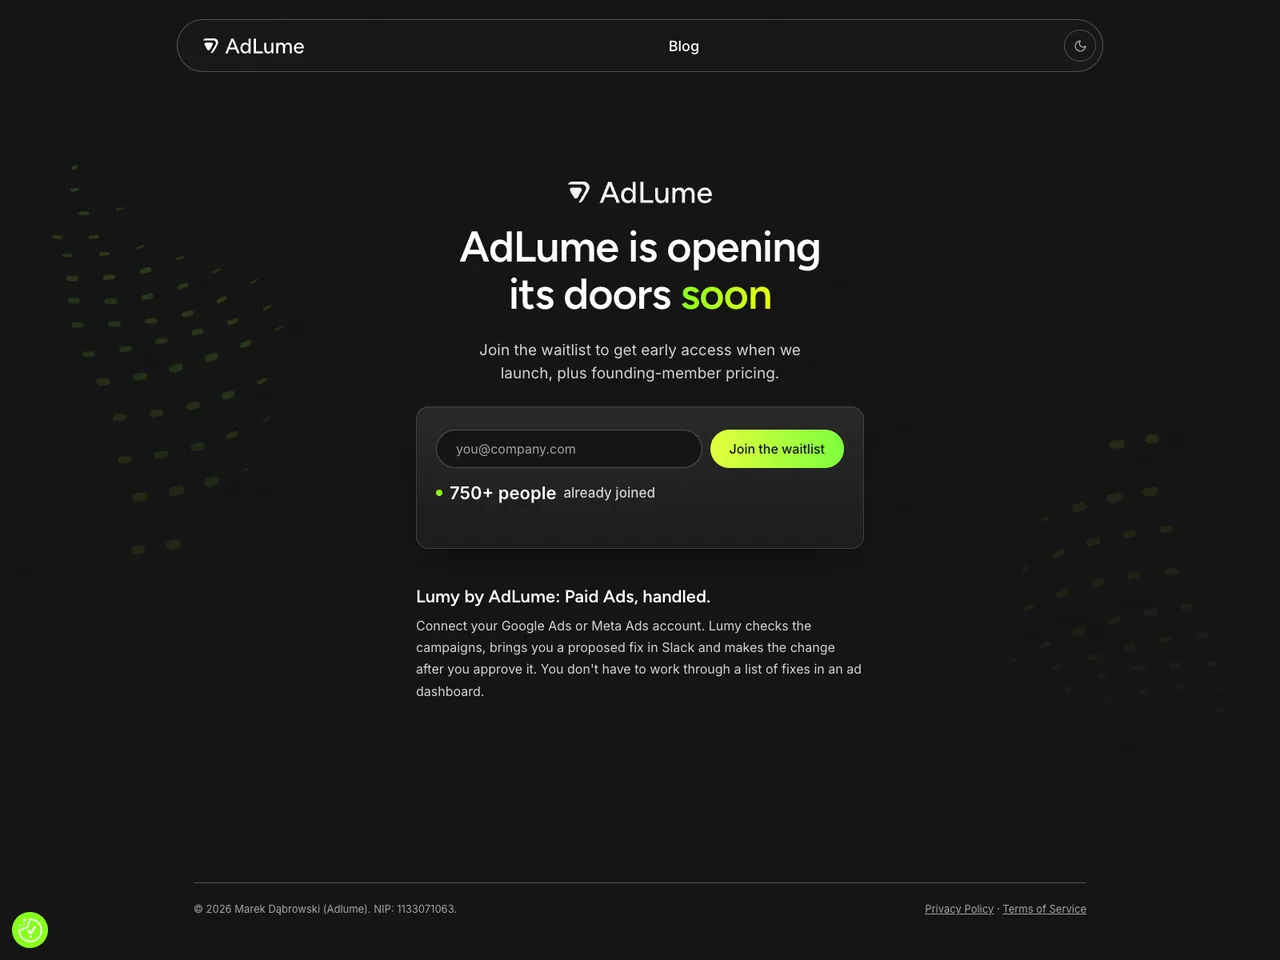
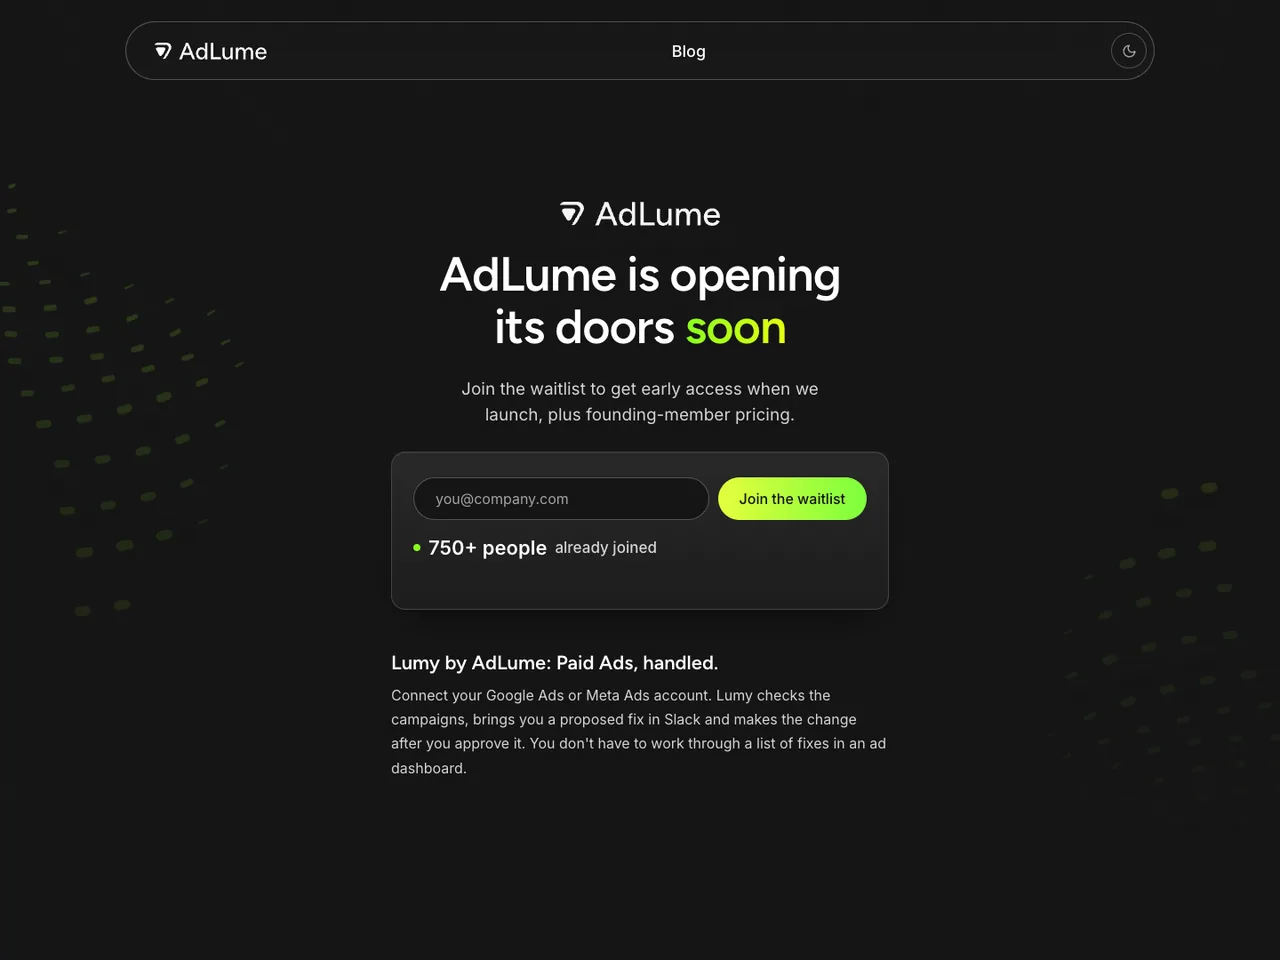
Fix the final review: AdLume's footer, the phone's radius, tURL's wording
- AdLume's 4:3 capture showed its footer, with a person's name and tax
  number, in full at 1440. It is cropped from the same capture to the
  page above the footer (still 4:3, only background lost at the sides).
- The phone's body and screen use the kit's radii (20 px card, 12 px
  control) instead of 32 and 24, which the radius scale does not allow.
- tURL's English summary said each code length shows how many codes are
  still free; the interface shows how many it allows. Polish was right.

diff --git a/frontend/src/components/home/ProjectWindow.tsx b/frontend/src/components/home/ProjectWindow.tsx
@@ -110,8 +110,8 @@ const ProjectWindow = ({
     // page paints in.
     return (
       <div className={cn("relative overflow-hidden bg-lavender", FILL)}>
-        <div className="absolute left-1/2 top-[6%] aspect-[406/860] w-[41%] -translate-x-1/2 rounded-[2rem] border border-border bg-card p-2 max-sm:w-1/2 lg:h-[115%] lg:w-auto">
-          <div className="relative grid size-full place-items-center overflow-hidden rounded-3xl bg-lavender">
+        <div className="absolute left-1/2 top-[6%] aspect-[406/860] w-[41%] -translate-x-1/2 rounded-card border border-border bg-card p-2 max-sm:w-1/2 lg:h-[115%] lg:w-auto">
+          <div className="relative grid size-full place-items-center overflow-hidden rounded-lg bg-lavender">
             {icon}
             {shot}
           </div>

diff --git a/frontend/src/content/projects/turl.en.md b/frontend/src/content/projects/turl.en.md
@@ -8,7 +8,7 @@ context: personal
 stack: Python, FastAPI, SQLAlchemy, Alembic, PostgreSQL, React, TypeScript, Vite, Tailwind CSS, Docker, Railway, Cloudflare
 demo: https://turl.info
 repository: https://github.com/SatoriAI/tURL
-summary: tURL is a link shortener whose links expire when you decide, anywhere from one day to never. A short code can be 2, 4, 6 or 8 characters long, and each length shows roughly how many codes are still free. At any time you can check whether a link works and how many days it has left, then extend an active one or lift its time limit. All without an account or a login.
+summary: tURL is a link shortener whose links expire when you decide, anywhere from one day to never. A short code can be 2, 4, 6 or 8 characters long, and each length shows roughly how many different codes it allows. At any time you can check whether a link works and how many days it has left, then extend an active one or lift its time limit. All without an account or a login.
 ---
 
 # tURL
@@ -31,7 +31,7 @@ summary: tURL is a link shortener whose links expire when you decide, anywhere f
 
 ## Short summary
 
-tURL is a link shortener whose links expire when you decide, anywhere from one day to never. A short code can be 2, 4, 6 or 8 characters long, and each length shows roughly how many codes are still free. At any time you can check whether a link works and how many days it has left, then extend an active one or lift its time limit. All without an account or a login.
+tURL is a link shortener whose links expire when you decide, anywhere from one day to never. A short code can be 2, 4, 6 or 8 characters long, and each length shows roughly how many different codes it allows. At any time you can check whether a link works and how many days it has left, then extend an active one or lift its time limit. All without an account or a login.
 
 ## Problem
 

diff --git a/visual-kit/README.md b/visual-kit/README.md
@@ -109,7 +109,7 @@ Suggested responsive scale, desktop → mobile: hero 64/70 → 36/41 px (a masth
 - Keyboard focus uses a visible 2 px iris outline with a 3 px offset.
 - Radius scale: 2 px for motif modules, 12 px for buttons and controls, 20 px for cards and panels. There is no fourth value.
 - Project cards use a white surface, a 20 px radius, and a subtle outline. Motion or elevation should imply interactivity only when the whole card is actionable.
-- A project marked as a phone app (`mobile` in the admin) keeps the same browser frame as every project, so every panel has one footprint: its window is the lavender field, the phone standing in it (a white body with the subtle outline, no shadow, round its real capture at phone size), cut off at the window's foot like a product shot.
+- A project marked as a phone app (`mobile` in the admin) keeps the same browser frame as every project, so every panel has one footprint: its window is the lavender field, the phone standing in it (a white body with the subtle outline and the card radius, no shadow, round its real capture at phone size in a 12 px screen), cut off at the window's foot like a product shot.
 - Every project's panel is as tall as the longest one (switching never moves the page) and fills it: side by side, the frame grows to the panel's foot and its window shows more of the page, cropped at the sides; stacked, the story takes the rest, the Vex prompt at its foot. No project leaves a gap under it.
 - Form errors must be described in words; colour cannot be the only signal.
 
